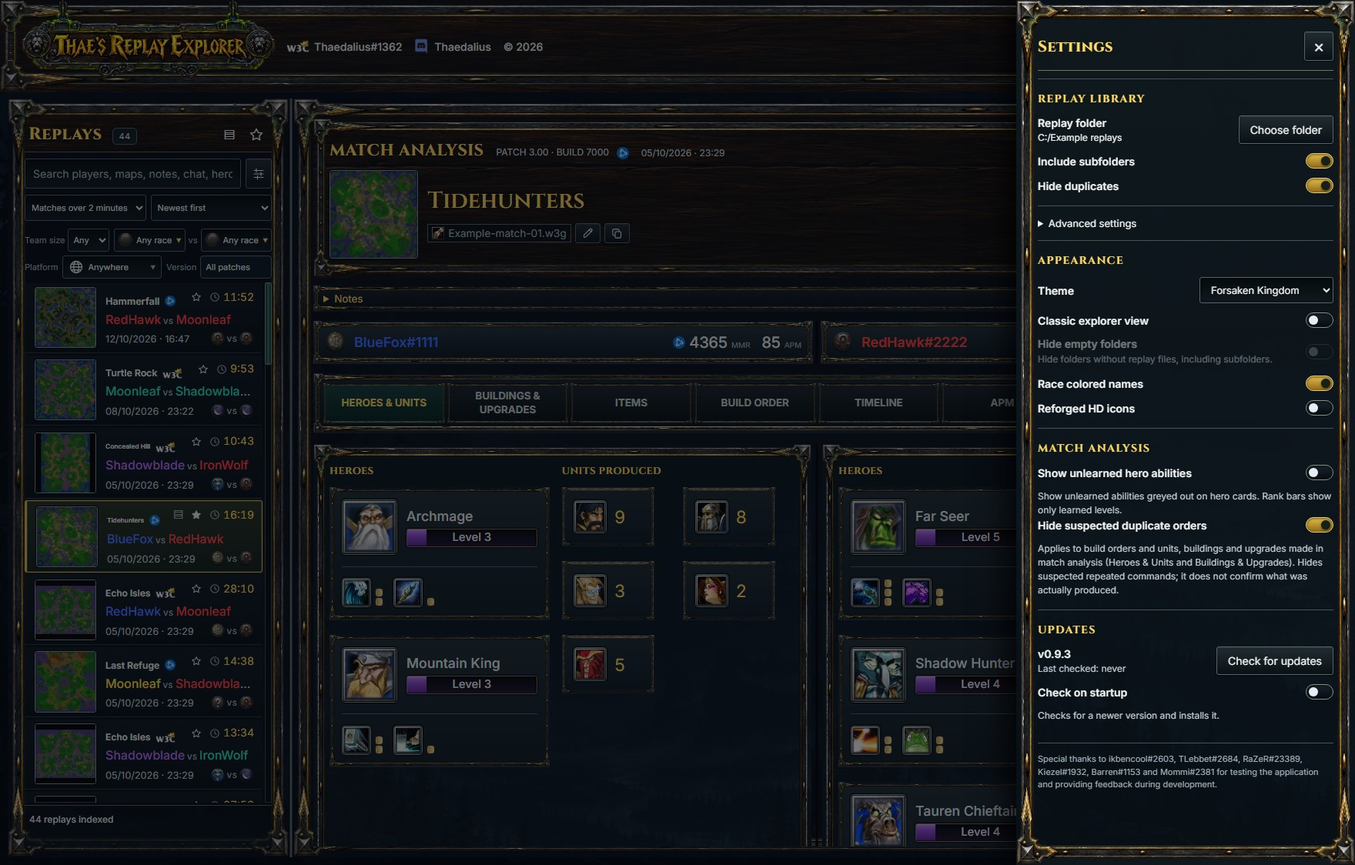
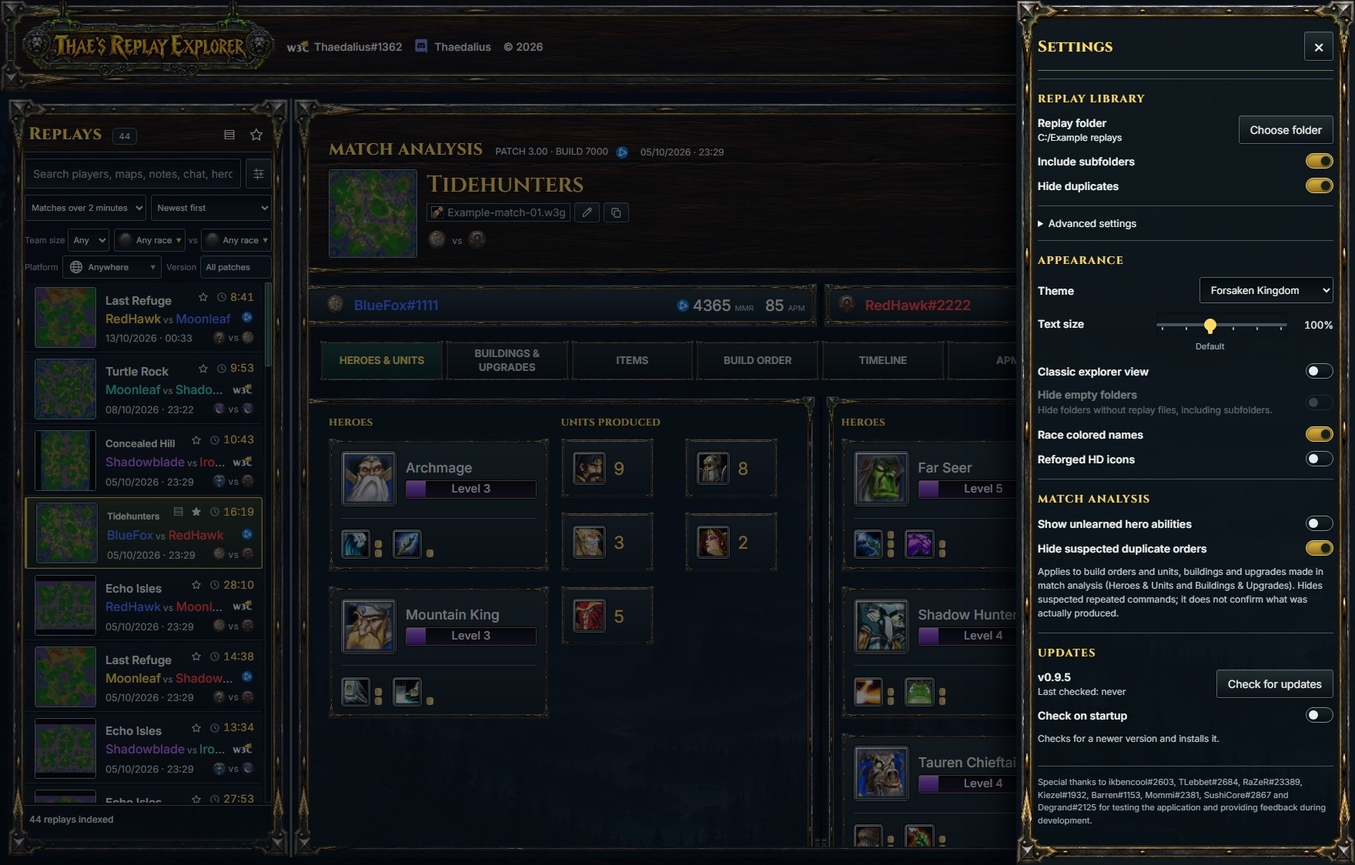
Release version 0.9.5 with text sizing and smoother navigation

diff --git a/docs/guides.html b/docs/guides.html
@@ -1,5 +1,5 @@
-<!doctype html><html lang="en"><head><meta charset="utf-8"><meta name="viewport" content="width=device-width,initial-scale=1"><title>Warcraft III Replay Guides: Files, Builds &amp; Sharing | Thae's Replay Explorer</title><meta name="description" content="Learn to open Warcraft 3 .w3g files, find replay folders, compare builds, rename and bookmark matches, and share replays with screenshots and examples."><link rel="canonical" href="https://thaesreplayexplorer.com/guides.html"><meta name="robots" content="index,follow,max-image-preview:large"><meta property="og:type" content="website"><meta property="og:title" content="Warcraft III Replay Guides: Files, Builds &amp; Sharing"><meta property="og:description" content="Learn to open Warcraft 3 .w3g files, find replay folders, compare builds, rename and bookmark matches, and share replays with screenshots and examples."><meta property="og:url" content="https://thaesreplayexplorer.com/guides.html"><meta property="og:image" content="https://thaesreplayexplorer.com/assets/heroes-units.jpg?v=0.9.3-forsaken"><meta name="twitter:card" content="summary_large_image"><link rel="icon" type="image/x-icon" href="favicon.ico"><link rel="icon" type="image/png" sizes="96x96" href="assets/thaes-site-icon.png"><link rel="stylesheet" href="style.css?v=0.9.3-type1"><link rel="stylesheet" href="typography.css"><link rel="stylesheet" href="warcraft.css?v=0.9.3-buttons1"><meta name="theme-color" content="#080e13"><script src="screenshots.js" defer></script><script type="application/ld+json">{"@context": "https://schema.org", "@type": "CollectionPage", "name": "Warcraft III replay guides", "url": "https://thaesreplayexplorer.com/guides.html", "description": "Learn to open Warcraft 3 .w3g files, find replay folders, compare builds, rename and bookmark matches, and share replays with screenshots and examples.", "hasPart": [{"@type": "TechArticle", "headline": "How to open a Warcraft III .w3g replay", "url": "https://thaesreplayexplorer.com/guides.html#open-replays"}, {"@type": "TechArticle", "headline": "Where to find Warcraft 3 replay files", "url": "https://thaesreplayexplorer.com/guides.html#replay-folders"}, {"@type": "TechArticle", "headline": "Comparing build orders", "url": "https://thaesreplayexplorer.com/guides.html#build-orders"}, {"@type": "TechArticle", "headline": "Saving, sharing and bookmarking replays", "url": "https://thaesreplayexplorer.com/guides.html#organize-replays"}]}</script></head><body><a class="skip-link" href="#main">Skip to content</a><header><a class="brand" href="./"><span class="brand-name"><img class="brand-wordmark" src="assets/thaes-replay-explorer-banner.png" alt="Thae's Replay Explorer" width="2172" height="724"></span></a><a class="author" href="https://w3champions.com/player/Thaedalius%231362" target="_blank" rel="noopener noreferrer">Made by Thaedalius ↗</a></header><div class="wrap"><nav class="site-tabs" aria-label="Main navigation"><a href="./">Overview</a><a href="guides.html" aria-current="page">Guides</a></nav><main id="main"><section class="guides-intro"><p class="eyebrow">THAE'S REPLAY EXPLORER / GUIDES</p><h1>Learn from your<br>Warcraft III replays.</h1><p class="lead">From your first .w3g file to a focused match review. Four practical guides, with screenshots and examples you can follow.</p><p>For the Windows desktop app. Screenshots use example matches in the Forsaken Kingdom theme.</p></section><div class="guide-layout"><nav class="guide-toc" aria-label="Guide topics"><p class="eyebrow">IN THIS GUIDE</p><a href="#open-replays">01 · Open a .w3g replay</a><a href="#replay-folders">02 · Find replay folders</a><a href="#build-orders">03 · Comparing build orders</a><a href="#organize-replays">04 · Save, share &amp; bookmark</a><a class="toc-download" href="./#download-title">Download the app →</a></nav><div><article id="open-replays" class="guide-article"><p class="eyebrow">01 / GET STARTED</p><h2>How to open a Warcraft III .w3g replay</h2><p>A <code>.w3g</code> file contains a Warcraft III match's replay data. Thae's Replay Explorer reads it into tables and graphs; Warcraft III plays the match itself.</p><ol><li><a href="./#download-title">Download and install the Windows app</a>, then launch Thae's Replay Explorer.</li><li>On first launch, select <strong>Use this folder</strong> if the suggested location contains your replays, or <strong>Choose another folder</strong> to select their location.</li><li>Let the library populate, then select a match. Start with <strong>Heroes &amp; units</strong> for an overview of each player's army and abilities.</li><li>To watch the match, use <strong>Watch replay</strong>. This requires Warcraft III, a compatible game version and the matching map on your computer.</li></ol><div class="guide-example"><h3>Example: a replay a friend sent you</h3><p>Save <code>practice-match.w3g</code> into a folder you added to the app. The library picks up new files automatically. Search for <code>practice-match</code> and select it to open the analysis.</p></div><figure class="guide-figure"><a href="assets/heroes-units.jpg?v=0.9.3-forsaken" aria-label="Enlarge screenshot"><img src="assets/heroes-units.jpg?v=0.9.3-forsaken" width="1760" height="1124" loading="lazy" decoding="async" alt="Replay library and Heroes and units comparison for an example match."></a><figcaption>Heroes &amp; units shows hero levels, ability rank bars and grouped units in order of first production. Click the image to enlarge.</figcaption></figure><h3>If the replay does not appear</h3><p>Check that its folder is enabled and that <strong>Include subfolders</strong> is on if it is nested deeper. Clear library filters, including the short-game and patch filters. A damaged or unsupported replay may not parse; a future patch can require an app update.</p></article>
-<article id="replay-folders" class="guide-article"><p class="eyebrow">02 / YOUR LIBRARY</p><h2>Where to find Warcraft 3 replay files</h2><p>The app looks for the Warcraft III <code>BattleNet</code> folder under your Windows Documents folder. Account-specific replays can be deeper in that tree. Your Documents folder may be redirected to OneDrive or another drive, so use File Explorer to find the actual location.</p><div class="guide-example"><h3>A typical starting point</h3><code>Documents → Warcraft III → BattleNet</code><p>Choose this parent folder and enable Include subfolders to cover account folders beneath it. Downloaded replays may instead be in Downloads or a folder you chose yourself.</p></div><ol><li>Open <strong>Settings</strong> using the gear in the top-right corner.</li><li>Under <strong>Replay folder</strong>, select <strong>Choose folder</strong> and pick a location containing .w3g files.</li><li>Enable <strong>Include subfolders</strong> to scan nested folders.</li><li>For separate locations, expand <strong>Advanced settings</strong> and use <strong>Add folder</strong>. Each location has its own enabled and subfolder controls.</li></ol><figure class="guide-figure"><a href="assets/settings.jpg?v=0.9.3-forsaken" aria-label="Enlarge screenshot"><img src="assets/settings.jpg?v=0.9.3-forsaken" width="1760" height="1124" loading="lazy" decoding="async" alt="Replay folder selection and Include subfolders switch in the Settings panel."></a><figcaption>The replay-folder controls. Click the image to enlarge.</figcaption></figure><figure class="guide-figure"><a href="assets/search-map.jpg?v=0.9.2-forsaken" aria-label="Enlarge screenshot"><img src="assets/search-map.jpg?v=0.9.2-forsaken" width="1760" height="1124" loading="lazy" decoding="async" alt="Search bar containing refuge with two matching Last Refuge replay results."></a><figcaption>Search for part of a map name to narrow your replay library. Click the image to enlarge.</figcaption></figure><h3>Browse folders in Classic explorer view</h3><p>Enable <strong>Classic explorer view</strong> in Settings to show each configured folder as a separate root, then expand folders to reach their replay files. Right-click a folder to open it in File Explorer.</p><p>Folders with no replay results in the current view are greyed out and cannot expand. Enable <strong>Hide empty folders</strong> to remove them from the list; this option is available only in Classic view. Clearing filters can bring folders back when their replays match again.</p><p>Choose <strong>Longest first</strong> or <strong>Shortest first</strong> in the sorting dropdown to order matches by game duration. In Classic view, replays are sorted within their folders.</p><figure class="guide-figure"><a href="assets/classic-explorer.jpg?v=0.9.2-forsaken" aria-label="Enlarge Classic explorer screenshot"><img src="assets/classic-explorer.jpg?v=0.9.2-forsaken" width="1760" height="1124" loading="lazy" decoding="async" alt="Classic explorer view showing separate replay roots, nested folders and greyed empty folders beside match analysis."></a><figcaption>Classic explorer view keeps your replay folder structure visible. Click the image to enlarge.</figcaption></figure><h3>Warcraft III replays in one place</h3><p>Add every location where you save Warcraft III matches. Under advanced settings you can add additional replay folder locations and merge them in the replays list of the explorer.</p></article>
+<!doctype html><html lang="en"><head><meta charset="utf-8"><meta name="viewport" content="width=device-width,initial-scale=1"><title>Warcraft III Replay Guides: Files, Builds &amp; Sharing | Thae's Replay Explorer</title><meta name="description" content="Learn to open Warcraft 3 .w3g files, find replay folders, compare builds, rename and bookmark matches, and share replays with screenshots and examples."><link rel="canonical" href="https://thaesreplayexplorer.com/guides.html"><meta name="robots" content="index,follow,max-image-preview:large"><meta property="og:type" content="website"><meta property="og:title" content="Warcraft III Replay Guides: Files, Builds &amp; Sharing"><meta property="og:description" content="Learn to open Warcraft 3 .w3g files, find replay folders, compare builds, rename and bookmark matches, and share replays with screenshots and examples."><meta property="og:url" content="https://thaesreplayexplorer.com/guides.html"><meta property="og:image" content="https://thaesreplayexplorer.com/assets/heroes-units.jpg?v=0.9.5-forsaken"><meta name="twitter:card" content="summary_large_image"><link rel="icon" type="image/x-icon" href="favicon.ico"><link rel="icon" type="image/png" sizes="96x96" href="assets/thaes-site-icon.png"><link rel="stylesheet" href="style.css?v=0.9.3-type1"><link rel="stylesheet" href="typography.css"><link rel="stylesheet" href="warcraft.css?v=0.9.3-buttons1"><meta name="theme-color" content="#080e13"><script src="screenshots.js" defer></script><script type="application/ld+json">{"@context": "https://schema.org", "@type": "CollectionPage", "name": "Warcraft III replay guides", "url": "https://thaesreplayexplorer.com/guides.html", "description": "Learn to open Warcraft 3 .w3g files, find replay folders, compare builds, rename and bookmark matches, and share replays with screenshots and examples.", "hasPart": [{"@type": "TechArticle", "headline": "How to open a Warcraft III .w3g replay", "url": "https://thaesreplayexplorer.com/guides.html#open-replays"}, {"@type": "TechArticle", "headline": "Where to find Warcraft 3 replay files", "url": "https://thaesreplayexplorer.com/guides.html#replay-folders"}, {"@type": "TechArticle", "headline": "Comparing build orders", "url": "https://thaesreplayexplorer.com/guides.html#build-orders"}, {"@type": "TechArticle", "headline": "Saving, sharing and bookmarking replays", "url": "https://thaesreplayexplorer.com/guides.html#organize-replays"}]}</script></head><body><a class="skip-link" href="#main">Skip to content</a><header><a class="brand" href="./"><span class="brand-name"><img class="brand-wordmark" src="assets/thaes-replay-explorer-banner.png" alt="Thae's Replay Explorer" width="2172" height="724"></span></a><a class="author" href="https://w3champions.com/player/Thaedalius%231362" target="_blank" rel="noopener noreferrer">Made by Thaedalius ↗</a></header><div class="wrap"><nav class="site-tabs" aria-label="Main navigation"><a href="./">Overview</a><a href="guides.html" aria-current="page">Guides</a></nav><main id="main"><section class="guides-intro"><p class="eyebrow">THAE'S REPLAY EXPLORER / GUIDES</p><h1>Learn from your<br>Warcraft III replays.</h1><p class="lead">From your first .w3g file to a focused match review. Four practical guides, with screenshots and examples you can follow.</p><p>For the Windows desktop app. Screenshots use example matches in the Forsaken Kingdom theme.</p></section><div class="guide-layout"><nav class="guide-toc" aria-label="Guide topics"><p class="eyebrow">IN THIS GUIDE</p><a href="#open-replays">01 · Open a .w3g replay</a><a href="#replay-folders">02 · Find replay folders</a><a href="#build-orders">03 · Comparing build orders</a><a href="#organize-replays">04 · Save, share &amp; bookmark</a><a class="toc-download" href="./#download-title">Download the app →</a></nav><div><article id="open-replays" class="guide-article"><p class="eyebrow">01 / GET STARTED</p><h2>How to open a Warcraft III .w3g replay</h2><p>A <code>.w3g</code> file contains a Warcraft III match's replay data. Thae's Replay Explorer reads it into tables and graphs; Warcraft III plays the match itself.</p><ol><li><a href="./#download-title">Download and install the Windows app</a>, then launch Thae's Replay Explorer.</li><li>On first launch, select <strong>Use this folder</strong> if the suggested location contains your replays, or <strong>Choose another folder</strong> to select their location.</li><li>Let the library populate, then select a match. Start with <strong>Heroes &amp; units</strong> for an overview of each player's army and abilities.</li><li>To watch the match, use <strong>Watch replay</strong>. This requires Warcraft III, a compatible game version and the matching map on your computer.</li></ol><div class="guide-example"><h3>Example: a replay a friend sent you</h3><p>Save <code>practice-match.w3g</code> into a folder you added to the app. The library picks up new files automatically. Search for <code>practice-match</code> and select it to open the analysis.</p></div><figure class="guide-figure"><a href="assets/heroes-units.jpg?v=0.9.5-forsaken" aria-label="Enlarge screenshot"><img src="assets/heroes-units.jpg?v=0.9.5-forsaken" width="1760" height="1124" loading="lazy" decoding="async" alt="Replay library and Heroes and units comparison for an example match."></a><figcaption>Heroes &amp; units shows hero levels, ability rank bars and grouped units in order of first production. Click the image to enlarge.</figcaption></figure><h3>If the replay does not appear</h3><p>Check that its folder is enabled and that <strong>Include subfolders</strong> is on if it is nested deeper. Clear library filters, including the short-game and patch filters. A damaged or unsupported replay may not parse; a future patch can require an app update.</p></article>
+<article id="replay-folders" class="guide-article"><p class="eyebrow">02 / YOUR LIBRARY</p><h2>Where to find Warcraft 3 replay files</h2><p>The app looks for the Warcraft III <code>BattleNet</code> folder under your Windows Documents folder. Account-specific replays can be deeper in that tree. Your Documents folder may be redirected to OneDrive or another drive, so use File Explorer to find the actual location.</p><div class="guide-example"><h3>A typical starting point</h3><code>Documents → Warcraft III → BattleNet</code><p>Choose this parent folder and enable Include subfolders to cover account folders beneath it. Downloaded replays may instead be in Downloads or a folder you chose yourself.</p></div><ol><li>Open <strong>Settings</strong> using the gear in the top-right corner.</li><li>Under <strong>Replay folder</strong>, select <strong>Choose folder</strong> and pick a location containing .w3g files.</li><li>Enable <strong>Include subfolders</strong> to scan nested folders.</li><li>For separate locations, expand <strong>Advanced settings</strong> and use <strong>Add folder</strong>. Each location has its own enabled and subfolder controls.</li></ol><figure class="guide-figure"><a href="assets/settings.jpg?v=0.9.5-forsaken" aria-label="Enlarge screenshot"><img src="assets/settings.jpg?v=0.9.5-forsaken" width="1760" height="1124" loading="lazy" decoding="async" alt="Replay folder selection and Include subfolders switch in the Settings panel."></a><figcaption>The replay-folder controls. Click the image to enlarge.</figcaption></figure><figure class="guide-figure"><a href="assets/search-map.jpg?v=0.9.2-forsaken" aria-label="Enlarge screenshot"><img src="assets/search-map.jpg?v=0.9.2-forsaken" width="1760" height="1124" loading="lazy" decoding="async" alt="Search bar containing refuge with two matching Last Refuge replay results."></a><figcaption>Search for part of a map name to narrow your replay library. Click the image to enlarge.</figcaption></figure><h3>Browse folders in Classic explorer view</h3><p>Enable <strong>Classic explorer view</strong> in Settings to show each configured folder as a separate root, then expand folders to reach their replay files. Right-click a folder to open it in File Explorer.</p><p>Folders with no replay results in the current view are greyed out and cannot expand. Enable <strong>Hide empty folders</strong> to remove them from the list; this option is available only in Classic view. Clearing filters can bring folders back when their replays match again.</p><p>Choose <strong>Longest first</strong> or <strong>Shortest first</strong> in the sorting dropdown to order matches by game duration. In Classic view, replays are sorted within their folders.</p><figure class="guide-figure"><a href="assets/classic-explorer.jpg?v=0.9.2-forsaken" aria-label="Enlarge Classic explorer screenshot"><img src="assets/classic-explorer.jpg?v=0.9.2-forsaken" width="1760" height="1124" loading="lazy" decoding="async" alt="Classic explorer view showing separate replay roots, nested folders and greyed empty folders beside match analysis."></a><figcaption>Classic explorer view keeps your replay folder structure visible. Click the image to enlarge.</figcaption></figure><h3>Warcraft III replays in one place</h3><p>Add every location where you save Warcraft III matches. Under advanced settings you can add additional replay folder locations and merge them in the replays list of the explorer.</p></article>
 <article id="build-orders" class="guide-article"><p class="eyebrow">03 / OPENING DECISIONS</p><h2>Comparing build orders</h2><p>The <strong>Build orders</strong> tab lists each player's units, heroes, buildings and research chronologically for the first five minutes. Use <strong>Buildings &amp; upgrades</strong> to explore building and research timings later in the match. The <strong>Timeline</strong> tab compares full-match orders on separate tracks for heroes and units, buildings, upgrades and purchases. Toggle players and event types, merge tracks, zoom or export the full chart as a PNG.</p><ol><li>Select two matches with the same race and a similar matchup. Note the map and game patch; openings can change with either.</li><li>Open <strong>Build orders</strong> and compare the sequence of your first hero, production buildings and tier upgrades.</li><li>Read each ability's rank from the vertical bars in <strong>Heroes &amp; units</strong>. Three segments represent a normal ability's levels; an ultimate has one full bar. Hero levels are inferred from replay events, and exact experience progress is unavailable.</li><li>Look for the first meaningful difference, then watch that part of the replay to understand why it happened.</li><li>Use the per-player text or image export to keep the opening beside your practice notes.</li></ol><figure class="guide-figure"><a href="assets/build-order.jpg?v=0.9.2-forsaken" aria-label="Enlarge screenshot"><img src="assets/build-order.jpg?v=0.9.2-forsaken" width="1760" height="1124" loading="lazy" decoding="async" alt="Build Order tab with chronological opening orders, tier tags and text/image export buttons."></a><figcaption>The Build Order tab compares opening commands and provides a text and image export for each player. Click the image to enlarge.</figcaption></figure><div class="guide-example"><h3>Worked example: a later tech timing</h3><p>These are illustrative timings, not a recommended build or measurements from the screenshot.</p><div class="table-scroll"><table><caption>Compare a reference replay with a practice match</caption><thead><tr><th scope="col">Checkpoint</th><th scope="col">Reference</th><th scope="col">Practice</th><th scope="col">Difference</th></tr></thead><tbody><tr><th scope="row">Tier 2 order</th><td>2:40</td><td>3:05</td><td>25 seconds later</td></tr><tr><th scope="row">Second hero order</th><td>4:10</td><td>4:45</td><td>35 seconds later</td></tr></tbody></table></div><p>Review the lead-up to 2:40. Was there extra unit production, an expansion, or pressure at home? The timestamps identify where to look; they do not establish the cause.</p></div><figure class="guide-figure"><a href="assets/buildings-upgrades.jpg?v=0.9.2-forsaken" aria-label="Enlarge screenshot"><img src="assets/buildings-upgrades.jpg?v=0.9.2-forsaken" width="1760" height="1124" loading="lazy" decoding="async" alt="Buildings and upgrades for both players with in-game order timestamps."></a><figcaption>Building and upgrade timings help you connect an opening to later technology choices. Click the image to enlarge.</figcaption></figure></article>
 
 <article id="organize-replays" class="guide-article"><p class="eyebrow">04 / SAVE &amp; SHARE MATCHES</p><h2>Saving, sharing and bookmarking replays</h2><p>Keep matches you want to learn from, then send the actual <code>.w3g</code> file to a friend or coach. A replay attachment lets them inspect the match in Thae's Replay Explorer or watch it in a compatible Warcraft III installation.</p>

diff --git a/docs/index.html b/docs/index.html
@@ -11,14 +11,14 @@
 <meta property="og:title" content="Warcraft III Replay Analyzer &amp; Parser | Thae's Replay Explorer">
 <meta property="og:description" content="A free Warcraft 3 replay analyzer and .w3g parser for Windows. Browse matches, compare builds, heroes, units, APM and chat, and bookmark and share replays.">
 <meta property="og:url" content="https://thaesreplayexplorer.com/">
-<meta property="og:image" content="https://thaesreplayexplorer.com/assets/heroes-units.jpg?v=0.9.3-forsaken">
+<meta property="og:image" content="https://thaesreplayexplorer.com/assets/heroes-units.jpg?v=0.9.5-forsaken">
 <meta property="og:image:width" content="1760">
 <meta property="og:image:height" content="1124">
 <meta property="og:image:alt" content="Warcraft III replay analysis comparing heroes, abilities and units in Thae's Replay Explorer">
 <meta name="twitter:card" content="summary_large_image">
 <meta name="twitter:title" content="Warcraft III Replay Analyzer &amp; Parser | Thae's Replay Explorer">
 <meta name="twitter:description" content="A free Warcraft 3 replay analyzer and .w3g parser for Windows. Browse matches, compare builds, heroes, units, APM and chat, and bookmark and share replays.">
-<meta name="twitter:image" content="https://thaesreplayexplorer.com/assets/heroes-units.jpg?v=0.9.3-forsaken">
+<meta name="twitter:image" content="https://thaesreplayexplorer.com/assets/heroes-units.jpg?v=0.9.5-forsaken">
 <script type="application/ld+json">{
   "@context": "https://schema.org",
   "@type": "SoftwareApplication",
@@ -44,7 +44,7 @@
   "license": "https://github.com/SonnySipido/thaes-replay-explorer/blob/main/LICENSE",
   "downloadUrl": "https://github.com/SonnySipido/thaes-replay-explorer/releases/latest",
   "screenshot": [
-    "https://thaesreplayexplorer.com/assets/heroes-units.jpg?v=0.9.3-forsaken",
+    "https://thaesreplayexplorer.com/assets/heroes-units.jpg?v=0.9.5-forsaken",
     "https://thaesreplayexplorer.com/assets/buildings-upgrades.jpg?v=0.9.2-forsaken",
     "https://thaesreplayexplorer.com/assets/items.jpg?v=0.9.2-forsaken",
     "https://thaesreplayexplorer.com/assets/apm.jpg?v=0.9.2-forsaken",
@@ -62,7 +62,7 @@
     "https://thaesreplayexplorer.com/assets/search-map.jpg?v=0.9.2-forsaken",
     "https://thaesreplayexplorer.com/assets/search-notes.jpg?v=0.9.2-forsaken",
     "https://thaesreplayexplorer.com/assets/drag-drop-sharing.jpg?v=0.9.2-forsaken",
-    "https://thaesreplayexplorer.com/assets/settings.jpg?v=0.9.3-forsaken",
+    "https://thaesreplayexplorer.com/assets/settings.jpg?v=0.9.5-forsaken",
     "https://thaesreplayexplorer.com/assets/advanced-filters.jpg?v=0.9.2-forsaken",
     "https://thaesreplayexplorer.com/assets/timeline.jpg?v=0.9.2-forsaken",
     "https://thaesreplayexplorer.com/assets/timeline-forsaken-kingdom.jpg?v=0.9.2-forsaken",
@@ -70,7 +70,7 @@
     "https://thaesreplayexplorer.com/assets/theme-light.jpg?v=0.9.2",
     "https://thaesreplayexplorer.com/assets/theme-dark.jpg?v=0.9.2"
   ],
-  "image": "https://thaesreplayexplorer.com/assets/heroes-units.jpg?v=0.9.3-forsaken",
+  "image": "https://thaesreplayexplorer.com/assets/heroes-units.jpg?v=0.9.5-forsaken",
   "featureList": [
     "Warcraft III patch 3.0 The Forsaken Kingdom replay analysis",
     "Local .w3g replay library",
@@ -97,8 +97,8 @@
     "Full-match Timeline with player filters, event-type tracks, zoom and PNG export",
     "Forsaken Kingdom theme alongside three Simple themes"
   ],
-  "softwareVersion": "0.9.3",
-  "dateModified": "2026-10-12"
+  "softwareVersion": "0.9.5",
+  "dateModified": "2026-10-14"
 }</script>
 <link rel="icon" type="image/x-icon" href="favicon.ico"><link rel="icon" type="image/png" sizes="96x96" href="assets/thaes-site-icon.png"><link rel="stylesheet" href="style.css?v=0.9.3-type1"><link rel="stylesheet" href="typography.css"><link rel="stylesheet" href="warcraft.css?v=0.9.3-buttons1"><meta name="theme-color" content="#080e13"><script src="screenshots.js" defer></script><script src="release.js?v=0.9.3-msi1" defer></script><script src="gallery.js" defer></script><meta name="google-site-verification" content="JxXz0jHZsaVknTsMN1kjKHESRTOKfgvwE3kqyBDGrPI" />
 </head>
@@ -106,11 +106,11 @@
 <header><a class="brand" href="./"><span class="brand-name"><img class="brand-wordmark" src="assets/thaes-replay-explorer-banner.png" alt="Thae's Replay Explorer" width="2172" height="724"></span></a><a class="author" href="https://w3champions.com/player/Thaedalius%231362" target="_blank" rel="noopener noreferrer">Made by Thaedalius ↗</a></header><div class="wrap">
 <nav class="site-tabs" aria-label="Main navigation"><a href="./" aria-current="page">Overview</a><a href="guides.html">Guides</a></nav>
 <main id="main"><section class="hero" aria-label="Introduction"><div><p class="eyebrow">WARCRAFT III REPLAY TOOL · WINDOWS</p><h1 class="search-heading">Warcraft III replay analyzer &amp; parser</h1><p class="lead">Turn your Warcraft 3 replays into a match library you can search, compare and learn from.</p><p><strong>Thae's Replay Explorer</strong> is a free Windows tool that parses local Warcraft III <strong>.w3g replay files</strong>. Review heroes, units, buildings, build orders, APM and chat without launching the game. Supports Warcraft III patch 3.0, The Forsaken Kingdom. Free for non-commercial use.</p></div>
-<aside class="download" aria-labelledby="download-title"><h2 id="download-title">Download for Windows</h2><p>One installer. Everything you need to run the app.</p><a class="button" id="download-link" href="https://github.com/SonnySipido/thaes-replay-explorer/releases/download/v0.9.3/Thae-Replay-Explorer-0.9.3-Setup-x64.msi">↓ Download installer (.msi)</a><p class="version"><span id="release-version">Version 0.9.3</span> · Windows 10 / 11 · 64-bit</p><p class="small">No GitHub account or development tools needed.</p><p class="small">Switching from the EXE installer? Uninstall the app in Windows Settings first, then install MSI. Your settings, notes and replays are kept.</p><a class="secondary" href="https://github.com/SonnySipido/thaes-replay-explorer/releases/latest" target="_blank" rel="noopener noreferrer">Portable ZIP &amp; release notes ↗</a></aside></section>
+<aside class="download" aria-labelledby="download-title"><h2 id="download-title">Download for Windows</h2><p>One installer. Everything you need to run the app.</p><a class="button" id="download-link" href="https://github.com/SonnySipido/thaes-replay-explorer/releases/download/v0.9.5/Thae-Replay-Explorer-0.9.5-Setup-x64.msi">↓ Download installer (.msi)</a><p class="version"><span id="release-version">Version 0.9.5</span> · Windows 10 / 11 · 64-bit</p><p class="small">No GitHub account or development tools needed.</p><p class="small">Switching from the EXE installer? Uninstall the app in Windows Settings first, then install MSI. Your settings, notes and replays are kept.</p><a class="secondary" href="https://github.com/SonnySipido/thaes-replay-explorer/releases/latest" target="_blank" rel="noopener noreferrer">Portable ZIP &amp; release notes ↗</a></aside></section>
 
 <section class="features" aria-labelledby="features-title"><h2 id="features-title">See what happened in every match</h2><div class="columns"><article><span class="eyebrow">HEROES &amp; ARMIES</span><h3>Compare both teams</h3><p>Read hero levels and ability rank bars, compare units in first-production order, and explore buildings, upgrades and purchased items with Classic or Reforged HD icons.</p></article><article><span class="eyebrow">ACTIONS &amp; CHAT</span><h3>Follow the action</h3><p>View APM over time, control groups and player chat. Click a player's BattleTag to visit their W3Champions profile.</p></article><article><span class="eyebrow">YOUR MATCH LIBRARY</span><h3>Save a match worth revisiting</h3><p>Favorite a replay, add autosaved notes and find it again by matchup, player or map. Share the .w3g file with a friend for review. <a href="guides.html#organize-replays">See the save &amp; share guide.</a></p></article></div></section>
 <section class="gallery" aria-labelledby="screenshots-title"><div class="gallery-heading"><h2 id="screenshots-title">Explore the app</h2><p>Feature screenshots use Forsaken Kingdom. The Simple themes are shown at the end.</p></div><div class="screenshots" id="screenshot-slides" aria-roledescription="carousel" aria-label="App screenshots" tabindex="0">
-<figure role="group" aria-roledescription="slide" aria-label="1 of 25: Heroes &amp; units"><a href="assets/heroes-units.jpg?v=0.9.3-forsaken" aria-label="Enlarge Heroes &amp; units screenshot"><img src="assets/heroes-units.jpg?v=0.9.3-forsaken" width="1760" height="1124" loading="lazy" decoding="async" alt="Heroes and units comparison with hero levels and vertical ability rank bars."></a><figcaption><h3>Heroes &amp; units</h3><p>Compare hero levels, ability rank bars and grouped units for both teams.</p></figcaption></figure>
+<figure role="group" aria-roledescription="slide" aria-label="1 of 25: Heroes &amp; units"><a href="assets/heroes-units.jpg?v=0.9.5-forsaken" aria-label="Enlarge Heroes &amp; units screenshot"><img src="assets/heroes-units.jpg?v=0.9.5-forsaken" width="1760" height="1124" loading="lazy" decoding="async" alt="Heroes and units comparison with hero levels and vertical ability rank bars."></a><figcaption><h3>Heroes &amp; units</h3><p>Compare hero levels, ability rank bars and grouped units for both teams.</p></figcaption></figure>
 <figure role="group" aria-roledescription="slide" aria-label="2 of 25: Buildings &amp; upgrades"><a href="assets/buildings-upgrades.jpg?v=0.9.2-forsaken" aria-label="Enlarge Buildings &amp; upgrades screenshot"><img src="assets/buildings-upgrades.jpg?v=0.9.2-forsaken" width="1760" height="1124" loading="lazy" decoding="async" alt="Building and upgrade order timings for both players."></a><figcaption><h3>Buildings &amp; upgrades</h3><p>Follow building and research orders, including expansion and tier upgrade tags.</p></figcaption></figure>
 <figure role="group" aria-roledescription="slide" aria-label="3 of 25: Items"><a href="assets/items.jpg?v=0.9.2-forsaken" aria-label="Enlarge Items screenshot"><img src="assets/items.jpg?v=0.9.2-forsaken" width="1760" height="1124" loading="lazy" decoding="async" alt="Items tab showing item icons, order counts and purchase timestamps."></a><figcaption><h3>Items</h3><p>See purchased items, their order counts and the times they were bought.</p></figcaption></figure>
 <figure role="group" aria-roledescription="slide" aria-label="4 of 25: APM"><a href="assets/apm.jpg?v=0.9.2-forsaken" aria-label="Enlarge APM screenshot"><img src="assets/apm.jpg?v=0.9.2-forsaken" width="1760" height="1124" loading="lazy" decoding="async" alt="APM tab showing a shared chart with player-colored APM lines and visibility checkboxes."></a><figcaption><h3>APM</h3><p>Compare player-colored lines on one chart. Toggle players and hover over a line to read the time and APM.</p></figcaption></figure>
@@ -128,7 +128,7 @@
 <figure role="group" aria-roledescription="slide" aria-label="16 of 25: Search by map"><a href="assets/search-map.jpg?v=0.9.2-forsaken" aria-label="Enlarge Search by map screenshot"><img src="assets/search-map.jpg?v=0.9.2-forsaken" width="1760" height="1124" loading="lazy" decoding="async" alt="Search bar containing refuge with matching Last Refuge replay results."></a><figcaption><h3>Search by map</h3><p>Typing “refuge” shows replay results matching Last Refuge. Search also checks players, filenames, notes and chat.</p></figcaption></figure>
 <figure role="group" aria-roledescription="slide" aria-label="17 of 25: Search replay notes"><a href="assets/search-notes.jpg?v=0.9.2-forsaken" aria-label="Enlarge Search replay notes screenshot"><img src="assets/search-notes.jpg?v=0.9.2-forsaken" width="1760" height="1124" loading="lazy" decoding="async" alt="Search bar containing expansion with replays matching their saved example review notes."></a><figcaption><h3>Search replay notes</h3><p>Find annotated matches by typing a phrase from your saved notes, such as “expansion”.</p></figcaption></figure>
 <figure role="group" aria-roledescription="slide" aria-label="18 of 25: Drag &amp; drop replay sharing"><a href="assets/drag-drop-sharing.jpg?v=0.9.2-forsaken" aria-label="Enlarge Drag &amp; drop replay sharing screenshot"><img src="assets/drag-drop-sharing.jpg?v=0.9.2-forsaken" width="1760" height="1124" loading="lazy" decoding="async" alt="Illustrated drag-and-drop example over an app screenshot, with a replay file moving toward a clearly labelled receiving app."></a><figcaption><h3>Drag &amp; drop replay sharing</h3><p>Drag from either replay list view or the match filename into an app that accepts files. The receiving app and drag path are illustrated.</p></figcaption></figure>
-<figure role="group" aria-roledescription="slide" aria-label="19 of 25: Settings"><a href="assets/settings.jpg?v=0.9.3-forsaken" aria-label="Enlarge Settings screenshot"><img src="assets/settings.jpg?v=0.9.3-forsaken" width="1760" height="1124" loading="lazy" decoding="async" alt="Version 0.9.3 settings with replay folders, Classic view, empty-folder visibility and personalization controls."></a><figcaption><h3>Settings</h3><p>Choose replay folders, Classic view, empty-folder visibility, name colors, icons and update preferences.</p></figcaption></figure>
+<figure role="group" aria-roledescription="slide" aria-label="19 of 25: Settings"><a href="assets/settings.jpg?v=0.9.5-forsaken" aria-label="Enlarge Settings screenshot"><img src="assets/settings.jpg?v=0.9.5-forsaken" width="1760" height="1124" loading="lazy" decoding="async" alt="Version 0.9.5 settings with replay folders, Classic view, empty-folder visibility and personalization controls."></a><figcaption><h3>Settings</h3><p>Choose replay folders, Classic view, empty-folder visibility, name colors, icons and update preferences.</p></figcaption></figure>
 <figure role="group" aria-roledescription="slide" aria-label="20 of 25: Advanced filters"><a href="assets/advanced-filters.jpg?v=0.9.2-forsaken" aria-label="Enlarge Advanced filters screenshot"><img src="assets/advanced-filters.jpg?v=0.9.2-forsaken" width="1760" height="1124" loading="lazy" decoding="async" alt="Advanced filters with a selected player, Human race and the scrollable map dropdown."></a><figcaption><h3>Advanced filters</h3><p>Combine player, played race and map filters, with map categories and maximum player counts.</p></figcaption></figure>
 <figure role="group" aria-roledescription="slide" aria-label="21 of 25: Timeline"><a href="assets/timeline.jpg?v=0.9.2-forsaken" aria-label="Enlarge Timeline screenshot"><img src="assets/timeline.jpg?v=0.9.2-forsaken" width="1760" height="1124" loading="lazy" decoding="async" alt="Timeline analysis showing heroes and units, buildings, upgrades and purchases on separate player tracks."></a><figcaption><h3>Timeline</h3><p>Compare four tracks per player, filter event types, zoom, merge tracks and export the full timeline as an image.</p></figcaption></figure>
 <figure role="group" aria-roledescription="slide" aria-label="22 of 25: Merged Timeline"><a href="assets/timeline-forsaken-kingdom.jpg?v=0.9.2-forsaken" aria-label="Enlarge Merged Timeline screenshot"><img src="assets/timeline-forsaken-kingdom.jpg?v=0.9.2-forsaken" width="1760" height="1124" loading="lazy" decoding="async" alt="Merged player tracks with overlapping orders, visibility controls and image export in the Forsaken Kingdom theme."></a><figcaption><h3>Merged Timeline</h3><p>Merge each player’s four event tracks into one to compare orders in a compact view.</p></figcaption></figure>

diff --git a/README.md b/README.md
@@ -4,7 +4,7 @@
 
 A Windows **Warcraft III replay analyzer** and .w3g replay library by **Thaedalius**, supporting **patch 3.0: The Forsaken Kingdom** and local Warcraft III replays, including custom and LAN games. Also works with W3Champions and Battle.net replays. Compare heroes and ability levels, units, buildings, upgrades, items, APM, control groups and chat. Free for non-commercial use.
 
-## [Download for Windows — Installer (.msi)](https://github.com/SonnySipido/thaes-replay-explorer/releases/download/v0.9.3/Thae-Replay-Explorer-0.9.3-Setup-x64.msi)
+## [Download for Windows — Installer (.msi)](https://github.com/SonnySipido/thaes-replay-explorer/releases/download/v0.9.5/Thae-Replay-Explorer-0.9.5-Setup-x64.msi)
 
 1. Click **Download for Windows** above.
 2. Open the downloaded installer and follow the setup steps.
@@ -16,13 +16,13 @@ If you previously used the EXE installer, uninstall the app in Windows Settings 
 
 ## Features
 
-- **Match analysis:** hero levels and ability rank bars in game order, grouped units ordered by their first training event, individual building and research start times, FE/T2/T3 tags, items, a shared APM chart and optional winner display.
-- **Appearance:** Forsaken Kingdom is the default theme, with metal frames, wooden banners, gold headings, teal buttons and a misty forest backdrop. Updating to 0.9.3 selects this theme once; later theme choices stay saved. Simple, Light (Simple) and Dark (Simple) remain available in Settings, and the theme choice is remembered.
+- **Match analysis:** hero levels and ability rank bars in game order, grouped units ordered by their first training event, individual building and research start times, FE/T2/T3 tags, items, a shared APM chart and optional winner display. Teammates share a player card.
+- **Appearance:** Forsaken Kingdom is the default theme, with metal frames, wooden banners, gold headings, teal buttons and a misty forest backdrop. Updating from a version before 0.9.3 selects this theme once; later theme choices stay saved. Simple, Light (Simple) and Dark (Simple) remain available in Settings, and the theme choice is remembered. A text-size slider adjusts all app text from 80% to 130%, with the existing sizes at 100%.
 - **APM:** compare player-colored lines on one chart, toggle each player, and hover over a line to see its time and APM.
 - **Control groups:** every identified unit, hero and building type assigned to each group throughout the match.
 - **Build orders:** each player's first five minutes of units, heroes, buildings and research, with separate text and image exports named after the map and player.
 - **Timeline:** compare each player's full-match orders on four tracks: heroes and units, buildings, upgrades, and purchases. Toggle players or event types, merge tracks into one, and hover over overlapping icons for names and timestamps. Heroes, expansions, and T2/T3 tech have priority until an icon is hovered. In separate tracks, production buildings have priority over ordinary buildings, workers have the lowest priority, and crowded purchases spread apart to overlap by at most half their width. Tracks start separate on a fresh installation. The selected zoom mode, merge setting and event-type checkboxes are remembered across replays and launches. Export the visible players and event types as a full-track PNG named after the map and players.
-- **Favorites and notes:** favorite matches, add autosaved notes, filter with clickable icons, and export or import annotation backups. Identical replay files share their annotations.
+- **Favorites and notes:** favorite matches, add autosaved notes, filter with clickable icons, and export or import annotation backups. Turning Notes only on expands Match Analysis notes; turning it off collapses them. Identical replay files share their annotations.
 - **Library search:** find players, maps, filenames, note contents and in-game chat. Filter by matchup, team size, platform and version. The Advanced filters icon beside Search adds player/race pairs and a map filter; it starts off to keep the library compact.
 - **Advanced map choices:** Only Melee starts selected; W3C covers ladder maps and Custom includes all other maps. Category choices are remembered across replays and launches. These checkboxes control the map dropdown's suggestions; leaving all three unchecked shows every known map. Scroll through all matching maps, with maximum player counts shown when the replay records them. Choosing a map filters replays together with player and race searches. Clear filters is available after a selection changes and restores the default categories.
 - **Multiple folders:** enable or disable each location and its subfolders in Advanced settings. New replays are indexed automatically.

diff --git a/CHANGELOG.md b/CHANGELOG.md
@@ -1,5 +1,15 @@
 # Changelog
 
+## 0.9.5
+
+- Add a remembered text-size slider in Settings, with the existing sizes at 100% and a larger default marker.
+- Rework the Match Analysis header: align match details beside the map, move race icons below the replay filename, and place collapsible Notes at the top right. Expanded Notes use the available space without stretching the header. Turning off Notes only collapses Notes and remembers that state.
+- Show teammates together in one player card per team. Refine Forsaken Kingdom borders and panel connections, including scrollbar alignment, tabs, winner highlights and dropdown focus styling.
+- Add short transitions for Notes, Settings, analysis tabs, winner reveal, advanced filters, replay selection, library filters and paging, Classic folders, and timeline track and zoom changes. Previous and Next use faster 90 ms transitions. Respect reduced-motion preferences and rapid input.
+- Place replay platform logos below the duration and above the race matchup, and simplify Buildings & Upgrades table headings.
+- Increase website text sizes, keep button backgrounds within their frames, and open the portable download and release notes in a new tab. Refresh the main and Settings screenshots for this release.
+- Add Degrand#2125 to the development testers thanked in Settings.
+
 ## 0.9.3
 
 - Add a native MSI as the main website download. Keep EXE installers for existing EXE installations and route updates through the installed format. Switching from EXE to MSI requires uninstalling the EXE installation once; settings, notes and replay files remain.
